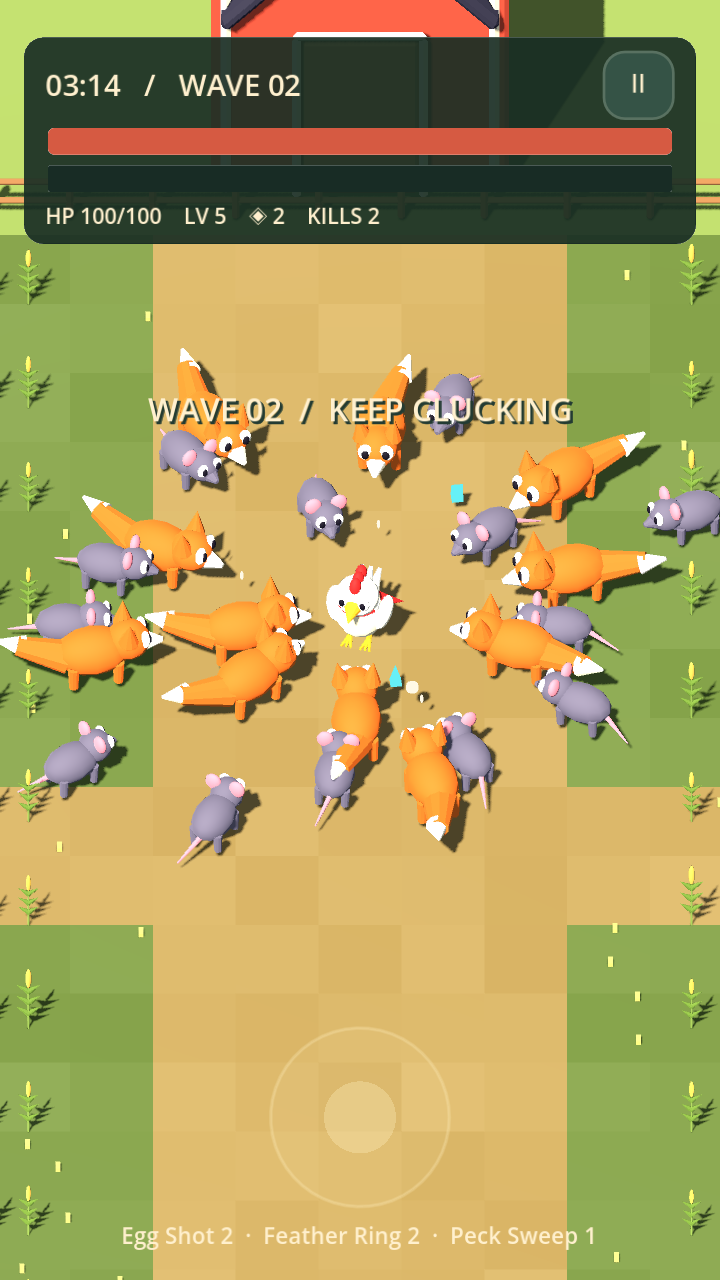
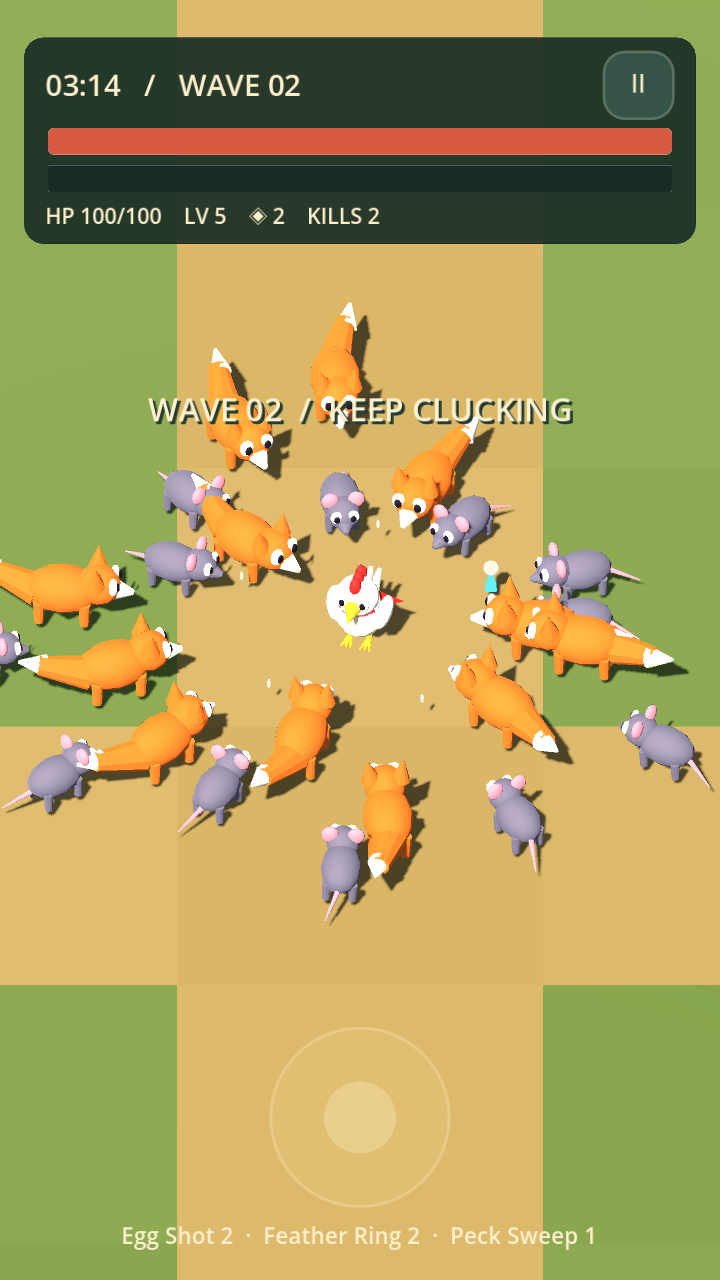
Expand arena and add ranged defaults, larger window, alerted hordes and auto grenades

diff --git a/docs/DESIGN.md b/docs/DESIGN.md
@@ -16,7 +16,7 @@ Bosses arrive 30 seconds before the nominal end. Defeating the boss ends the lev
 
 Drag below the top HUD to move. The floating joystick follows the first finger and releases when that finger lifts. WASD, arrows and mouse dragging also work. Attacks target automatically. Escape or Android Back pauses; returning to the farm preserves earned coins. Losing app focus pauses combat.
 
-Blue experience gems grant levels. Each level pauses combat and offers up to three eligible upgrades. Four attacks have five ranks each: Egg Shot, Feather Ring, Peck Sweep and Eggsplosion. Five passive upgrades have four ranks each: damage, movement, maximum health, pickup range and attack speed. A full build receives healing choices. Run upgrades reset on the next attempt.
+Blue experience gems grant levels. Each level pauses combat and offers up to three eligible upgrades. Four attacks have five ranks each: Egg Shot, Feather Ring, Peck Sweep and Egg Grenade. Five passive upgrades have four ranks each: damage, movement, maximum health, pickup range and attack speed. A full build receives healing choices. Run upgrades reset on the next attempt.
 
 Health pickups appear every 28 kills. A magnet appears every 65 kills and attracts all existing pickups. Boars and bosses display a red ring before a committed charge.
 
@@ -36,6 +36,14 @@ The economy intentionally allows meaningful purchases after a short attempt and 
 
 ## Implementation
 
-Godot 4.7.2, GDScript, OpenGL compatibility renderer. Blender exports original GLB assets; Godot animates movement with procedural body bob, lean and facing. Static repeated scenery is batched with MultiMesh. Enemy, projectile, pickup and combat-effect nodes are reused. Active enemies are capped at 110; excess experience pickups merge their value rather than losing it.
+Godot 4.7.2, GDScript, OpenGL compatibility renderer. Blender exports original GLB assets; Godot animates movement with procedural body bob, lean and facing. Static repeated scenery is batched with MultiMesh. Enemy, projectile, pickup and combat-effect nodes are reused. Ordinary spawns stop at 110 active enemies; alerted hordes can raise the total to 160; excess experience pickups merge their value rather than losing it.
 
 The source Blender file is in `art/cluck_assets.blend`; the generation scripts are in `art/`. Godot ignores that folder and uses the exported GLBs, so opening the game project does not require Blender to reimport it.
+
+## v0.2.0 revisions
+
+- The field measures 68 × 76 game units (previously 17 × 28), about 11 times the playable area. Scenery stays beyond the fences.
+- New saves start with ranged Egg Shot. Existing v1 saves switch to Egg Shot once, preserving coins, stats and owned weapons. Players can still deliberately equip other owned weapons.
+- The Mac window starts large and centered, using up to 90% of available screen height, capped at 1600 pixels.
+- At player levels 4, 7, 10 and every third level thereafter, a three-second incoming alert precedes a horde of 38–60 animals. This is additional to regular enemy spawning. The warning and arrival pause during upgrade selection.
+- Egg Grenade unlocks automatically at player level 3. It auto-throws a visible grenade in an arc, then damages every enemy in its blast radius. Upgrade choices increase its damage and blast size.

diff --git a/README.md b/README.md
@@ -2,13 +2,15 @@
 
 **Small bird. Big problems.** A playable, portrait 3D farm survival game built with Godot and original Blender assets.
 
-[Download Android and Mac builds](https://github.com/prateek-9207/cluck/releases/tag/v0.1.0) · [Build instructions](docs/BUILD.md) · [Design](docs/DESIGN.md) · [Validation](docs/VALIDATION.md)
+[Download Android and Mac builds](https://github.com/prateek-9207/cluck/releases/tag/v0.2.0) · [Build instructions](docs/BUILD.md) · [Design](docs/DESIGN.md) · [Validation](docs/VALIDATION.md)
 
 ## Play
 
 Three patches provide approximately 15 minutes of combat content: The Farmyard, Cornfield Chaos, and The Last Barn. Dodge rats, foxes, charging boars and tough cows, then defeat each patch's boss.
 
-- One-thumb movement and automatic attacks.
+- A large, simple field, one-thumb movement and automatic attacks.
+- Alerted enemy hordes every three player levels, starting at level 4.
+- Auto-fired grenades unlock at level 3 and blast groups of enemies.
 - Four attacks and five types of temporary upgrades.
 - Coins retained after attempts, including defeats.
 - Permanent stat upgrades and three selectable starting weapons.

diff --git a/docs/VALIDATION.md b/docs/VALIDATION.md
@@ -19,3 +19,9 @@
 - Physical Android hardware, thermal behaviour and low-end phone performance have not been tested.
 
 Tests use `cluck_test_save.json`, separate from normal player progress. Run `tests/run_tests.sh` with Godot installed. Set `GODOT_BIN` when its executable is elsewhere.
+
+## v0.2.0 regression checks
+
+Focused tests cover the enlarged bounds, ranged initial equipment, migration of old saves without losing coins or ownership, automatic grenade unlock, grenade flight and damage to multiple enemies, and a complete 38-enemy horde with a warning before arrival. Existing combat, purchase, saving, touch and pause tests remain included. The earlier emulator results apply to v0.1.0; v0.2.0 is re-exported and signature-verified but has not had another emulator playthrough.
+
+The v0.2.0 full-campaign rerun completed levels 1 and 2, but did not confirm completion of level 3 within the test budget. Final-level completion/balance and manual verification of the enlarged Mac window remain outstanding. The release is marked prerelease pending that follow-up.

diff --git a/docs/BUILD.md b/docs/BUILD.md
@@ -2,7 +2,7 @@
 
 ## Ready-to-play builds
 
-Download the APK or Mac ZIP from this repository's v0.1.0 release. The repository is private, so sign into the owner's GitHub account to download.
+Download the APK or Mac ZIP from this repository's v0.2.0 release. The repository is private, so sign into the owner's GitHub account to download.
 
 - Android: copy `cluck.apk` to an Android phone and open it to install. This is a development-signed APK, intended for direct testing, not a Play Store release. No account, network permission, ads or payments are required.
 - Mac: unzip `Cluck-macOS.zip`, then open `Cluck.app`. This local build is ad-hoc signed and is not Apple-notarized.
